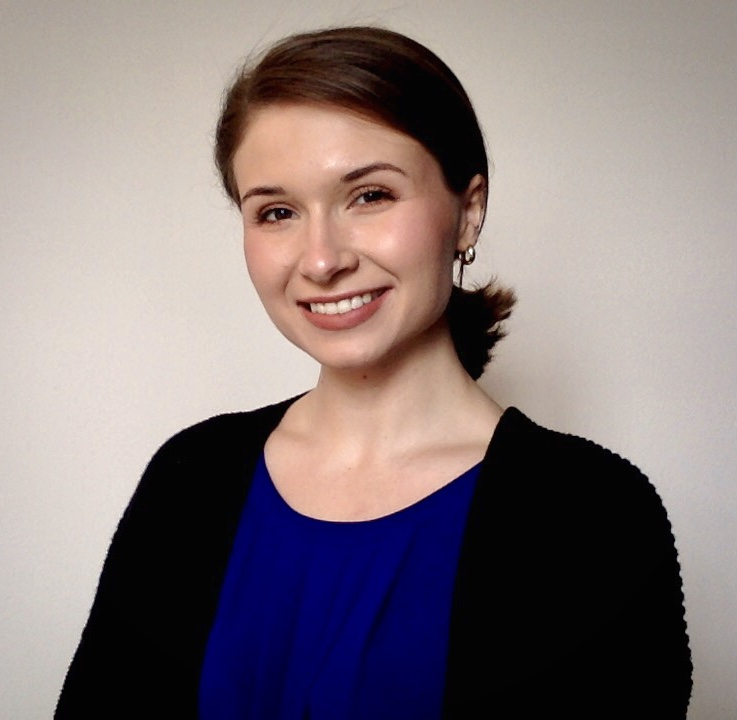
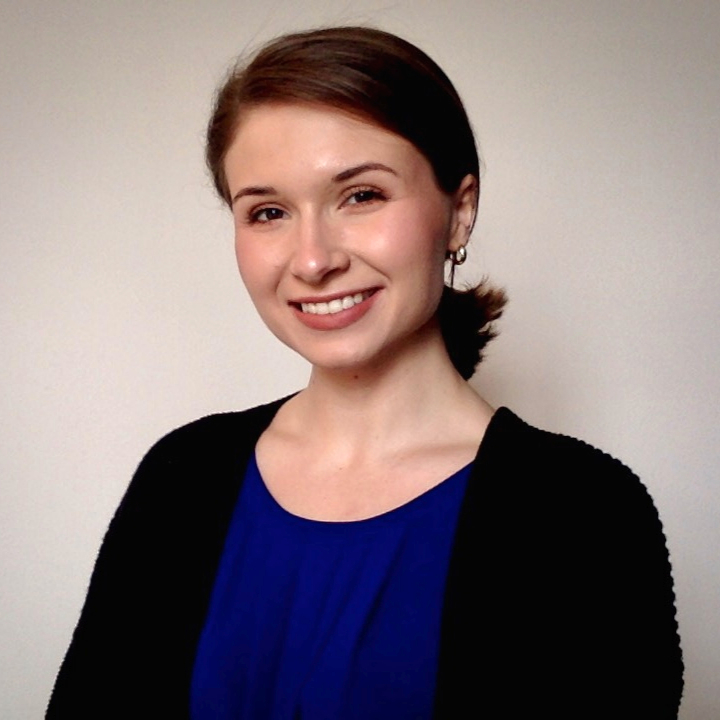
Image stretch (#15)
* aged teachers images to html and fixed css

* added a line between teacher and software

* fixed people.css

* fixed border

* fixed size

* fixed stretching with pictures

* fixed image stretching

* always check for merge conflicts when you're using the command line kids

* try again

diff --git a/people.html b/people.html
@@ -38,7 +38,7 @@
     </nav>
 
     <main class="container style-fix">
-        <section>
+       <section>
             <h1>Professor</h1>
             <div class="container">
                 <div class="row row-cols-4">
@@ -76,7 +76,7 @@
                 col-md-4 means that on medium screens, colmn will take up a third of the length (12/4 = 3).  
                 col-sm-6 means that on small screens, colmn will take up half the of the length (12/6 = 2).-->
                     <div class="col-lg-3 col-md-4 col-sm-6">
-                        <img src="assets/images/Julia.jpeg" alt="Place holder">
+                        <img src="assets/images/Julia.jpg" alt="Place holder">
                         <p>Julia <br> VR</p>
                     </div>
                     <div class="col-lg-3 col-md-4 col-sm-6">

diff --git a/assets/css/people.css b/assets/css/people.css
@@ -1,6 +1,5 @@
 .style-fix img {
-    height: 50%;
-    width: 35%;
+    width: 50%;
     display: block;
     margin-left: auto;
     margin-right: auto;
